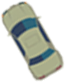
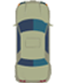
ada

diff --git a/codigo/otro modo.py b/codigo/otro modo.py
@@ -161,12 +161,15 @@ def moveCarroPrincipal(tecla):
         while True:
             box2 = marco.bbox(petrol)
             box =marco.bbox(jeep)
+            #box3 = marco.bbox()
          #   print(marco.coords(petrol)[0])
             #mueve el mapa 10 pixeles esto dara la sensacion de moverce hacia atras
             #marco.move(mapaPrincipal,0,10)
             if 2 in marco.find_overlapping(box[0],box[1],box[2],box[3]):
-                print("watch out")
-                marco.delete(jeep)
+                if marco.coords(jeep)> marco.coords(petrol):
+                    animacionRight()
+                else:
+                    animacionLeft()
     
             marco.after(30,marco.move(mapaPrincipal,0,10))
 
@@ -255,6 +258,30 @@ def moveCarroPrincipal(tecla):
             game.update()
             # cada cuantos segundos se va a mover la pantalla
             #time.sleep(0.02)
+            
+def animacionLeft():
+    marco.itemconfigure(jeep, state='hidden')
+    for a in range (len(choqueLeft)):
+        display1=marco.create_image(marco.coords(jeep)[0]-13,marco.coords(jeep)[1],image=choqueLeft[a], anchor=NW)
+        if a==1:
+            marco.delete(display1)
+            marco.move(jeep,+50,0)
+        game.update()
+        time.sleep(1.0)
+        marco.delete(display1)
+    marco.itemconfigure(jeep, state='normal')
+    
+def animacionRight():
+    #marco.itemconfigure(jeep, state='hidden')
+    for a in range (len(choqueRight)):    
+        display1=marco.create_image(marco.coords(jeep)[0]-13,marco.coords(jeep)[1],image=choqueRight[a], anchor=NW)
+        if a==1:
+            marco.delete(display1)
+            marco.move(jeep,+50,0)
+        game.update()
+        time.sleep(1.0)
+        marco.delete(display1)
+    #marco.itemconfigure(jeep, state='normal')
 
 def animacionMapaLeft():
     marco.itemconfigure(jeep, state='hidden')
@@ -305,7 +332,7 @@ def enemigoMueve():
                 marco.after(15,marco.move(enemyMov,10,0))
             game.update()
 
-    elif marco.coords(mapaPrincipal)[1] == -13800:  
+    elif marco.coords(mapaPrincipal)[1] == -2800:  
          marco.coords(enemyMov,num1,0)
 
     elif marco.coords(mapaPrincipal)[1]>-13800 and marco.coords(mapaPrincipal)[1] < -13700:
@@ -366,7 +393,7 @@ def enemigosSiguen():
             game.update()
             
     elif marco.coords(mapaPrincipal)[1] == -8500:
-        marco.coords(enemyFoll, num2,0)
+        marco.coords(enemyFoll, num1,0)
         
     elif marco.coords(mapaPrincipal)[1]>-8500 and marco.coords(mapaPrincipal)[1]<-8400:
         valorCoord=0
@@ -551,6 +578,16 @@ exp6 = PhotoImage(file="explosion6.png")
 exp7 = PhotoImage(file="explosion7.png")
 
 explosiones=[exp1,exp2,exp3,exp4,exp5,exp6,exp7]
+
+#choques Left
+choque1= PhotoImage(file="crash1.png")
+choque2= PhotoImage(file="crash2.png")
+choqueLeft=[choque1,choque2]
+
+#choques right
+choque3=PhotoImage(file="crash3.png")
+choque4= PhotoImage(file="crash4.png")
+choqueRight=[choque3,choque4]
 
 def numerosAleatorios():
     for a in range(1):
